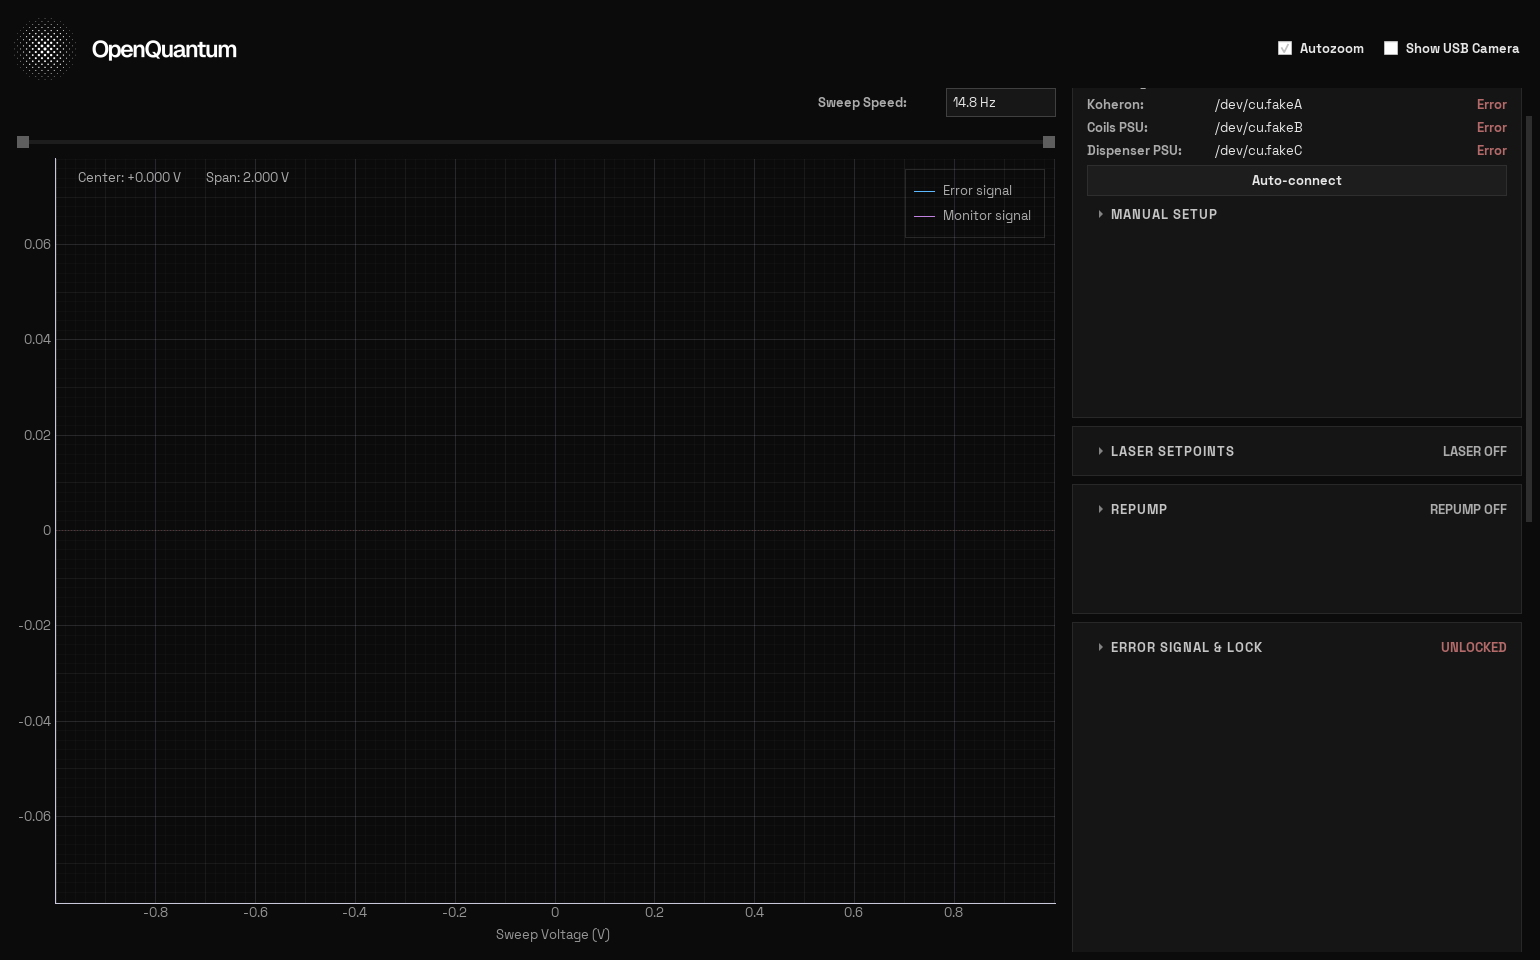
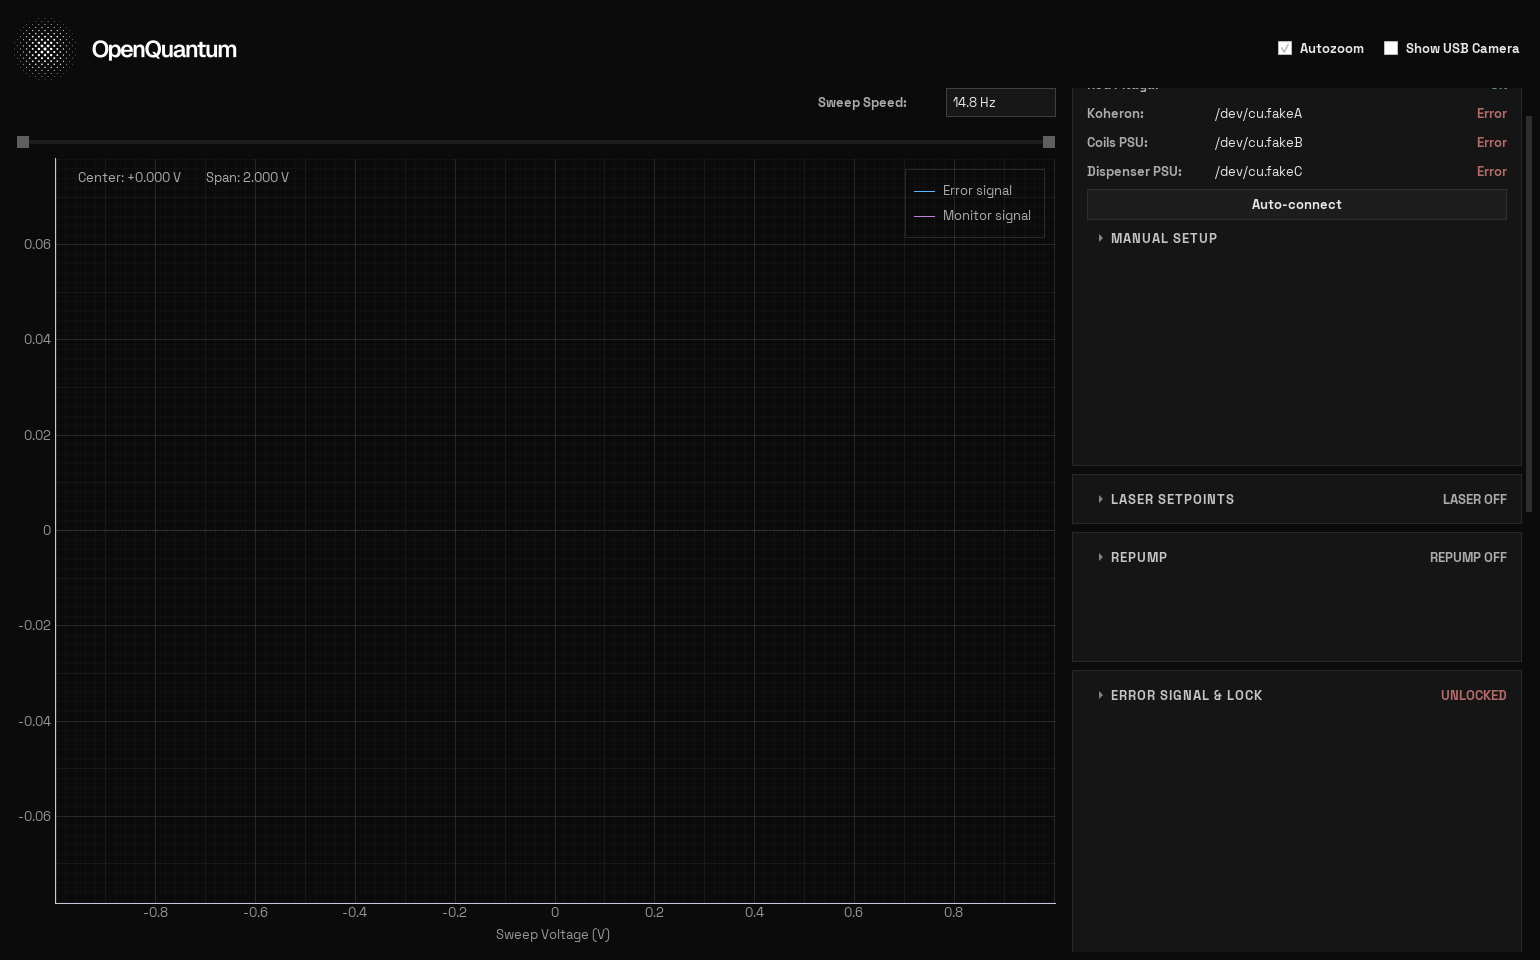
Turn modulation off on exit; even out the Devices card rows
Closing already drove four of the five outputs safe -- the laser worker
sends lason 0, both DPS workers write REG_OUTPUT=0, and the repump worker
pulls its gate low, all on stop(). Modulation was the gap: it is a linien
parameter rather than a worker output, so the dither kept running on the
Red Pitaya after the app exited. closeEvent now zeroes the amplitude
before the linien worker goes away, and logs it.

This only covers a graceful close. A crash or a kill still leaves the
last value on the device.

The three Devices row builders were the only ones without vertical
margins, so that card packed tighter than everything else. They now use
the same 3px as add_slider_row and add_readout_row.

diff --git a/mot_control.py b/mot_control.py
@@ -1423,6 +1423,8 @@ class OpenQuantumControlsWindow(QtWidgets.QMainWindow):
     def _add_port_select_row(self, layout, label_text, value):
         """Labelled port dropdown. Options are filled by _refresh_discovery."""
         row = QtWidgets.QHBoxLayout()
+        # Same rhythm as add_slider_row / add_readout_row.
+        row.setContentsMargins(0, 3, 0, 3)
         row.setSpacing(8)
         row.addWidget(self._small_label(label_text))
         select = PortSelect(value)
@@ -1438,6 +1440,8 @@ class OpenQuantumControlsWindow(QtWidgets.QMainWindow):
         reads as status rather than as a form to fill in.
         """
         row = QtWidgets.QHBoxLayout()
+        # Same rhythm as add_slider_row / add_readout_row.
+        row.setContentsMargins(0, 3, 0, 3)
         row.setSpacing(8)
         row.addWidget(self._small_label(label_text))
         value = QtWidgets.QLabel(edit.text())
@@ -2142,6 +2146,8 @@ class OpenQuantumControlsWindow(QtWidgets.QMainWindow):
 
     def _add_line_edit(self, layout, label_text, value, placeholder):
         row = QtWidgets.QHBoxLayout()
+        # Same rhythm as add_slider_row / add_readout_row.
+        row.setContentsMargins(0, 3, 0, 3)
         row.setSpacing(8)
         row.addWidget(self._small_label(label_text))
         edit = QtWidgets.QLineEdit(str(value or ""))
@@ -3288,6 +3294,21 @@ class OpenQuantumControlsWindow(QtWidgets.QMainWindow):
             f"color: {color}; font-size: 13px; font-weight: 700; border: none;"
         )
 
+    def _silence_modulation_on_exit(self):
+        """Drive the dither to zero before the linien worker goes away.
+
+        Only reaches the device on a graceful close -- a crash or a kill
+        leaves the last value on the Red Pitaya.
+        """
+        worker = self._get_lock_worker()
+        if worker is None:
+            return
+        try:
+            worker.set_modulation_amplitude(0)
+            self._event_log.log("modulation_auto_off", reason="app_exit")
+        except Exception as e:
+            self._log_fault("linien", f"could not zero modulation on exit: {e}")
+
     def closeEvent(self, event):
         print("Shutting down OpenQuantum Controls...")
         self._save_ui_state()
@@ -3300,6 +3321,12 @@ class OpenQuantumControlsWindow(QtWidgets.QMainWindow):
                 "dispenser/cooldown_until",
                 time.time() + DispenserWorker.COOLDOWN_SECONDS,
             )
+        # The workers each drive their own output safe on stop (laser
+        # lason 0, both DPS outputs off, repump gate low). Modulation is
+        # the exception: it is a linien parameter, not a worker output, so
+        # it would otherwise keep dithering the laser after we exit.
+        self._silence_modulation_on_exit()
+
         self.camera_widget.stop()
         self.linien_widget.stop()
         self._stop_hardware_workers()

diff --git a/tests/smoke_ui.py b/tests/smoke_ui.py
@@ -819,7 +819,19 @@ try:
     w1.sweep_speed_combo.setCurrentIndex(4)
     w1._set_dispenser_fire(9.0, 20.0)
     w1._settings.sync()
+
+    # Closing must silence the dither. The workers drive their own
+    # outputs safe on stop, but modulation is a linien parameter rather
+    # than a worker output, so nothing else would turn it off.
+    zeroed = []
+
+    class _FakeLockWorker:
+        def set_modulation_amplitude(self, value):
+            zeroed.append(value)
+
+    w1.linien_widget.linien_thread = _FakeLockWorker()
     w1.close()
+    assert zeroed == [0], zeroed
     app.processEvents()
 
     w2 = mot_control.OpenQuantumControlsWindow()
